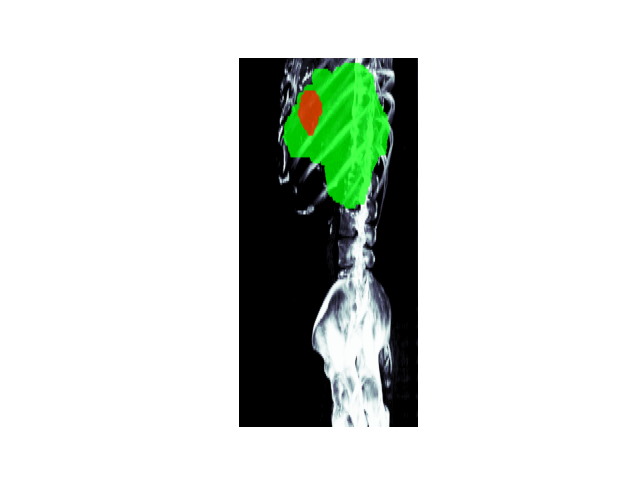
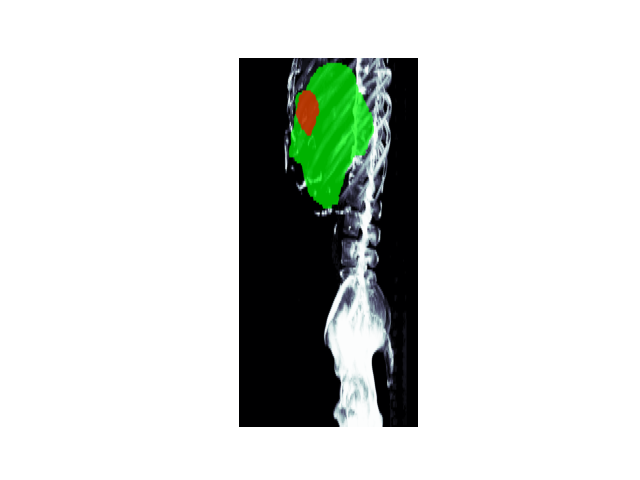
new output

Changed region(s): [[0.4375, 0.0938, 0.625, 0.9062]]

diff --git a/task1_animation.py b/task1_animation.py
@@ -7,6 +7,7 @@ from matplotlib import pyplot as plt, animation
 import os
 from tqdm import tqdm 
 from utils import load_dcm_data,maximum_intensity_projection,sigmoid_contrast
+import argparse
 
 
 
@@ -60,86 +61,82 @@ def create_seg_mask(dcm_mask,dcms_full_patient):
     seg_mask[start_index:end_index] =  np.flip(dcm_mask.pixel_array,0) #A flip is necessary
     return seg_mask
 
-if __name__ == '__main__':
+def main(ct_path, tumor_path, liver_path, n):
     os.makedirs('results/MIP/', exist_ok=True)
-    # Load and sort full patient volume
-    dcm_path='RadCTTACEomics_1193-20250418T131346Z-001/RadCTTACEomics_1193/10_AP_Ax2.50mm'
-    dcms_full_patient=load_dcm_data(dcm_path)
-    dcms_full_patient.sort(key = (lambda x: float(x.SliceLocation))) #Sort by skuce index
+
+    # Load and sort CT volume
+    dcms_full_patient = load_dcm_data(ct_path)
+    dcms_full_patient.sort(key=lambda x: float(x.SliceLocation))
     combined_pixelarray = np.stack([x.pixel_array for x in dcms_full_patient], axis=0)
 
-    #Load tumor
-    dmc_tumor_path='RadCTTACEomics_1193-20250418T131346Z-001/RadCTTACEomics_1193/10_AP_Ax2.50mm_ManualROI_Tumor.dcm'
-    dcm_tumor=pydicom.dcmread(dmc_tumor_path)
-    maks_tumor = create_seg_mask(dcm_tumor, dcms_full_patient)
+    # Load tumor segmentation
+    dcm_tumor = pydicom.dcmread(tumor_path)
+    mask_tumor = create_seg_mask(dcm_tumor, dcms_full_patient)
 
-    #Load liver
-    dmc_liver_path='RadCTTACEomics_1193-20250418T131346Z-001/RadCTTACEomics_1193/10_AP_Ax2.50mm_ManualROI_Liver.dcm'
-    dcm_liver=pydicom.dcmread(dmc_liver_path)
-    maks_liver=create_seg_mask(dcm_liver,dcms_full_patient)
+    # Load liver segmentation
+    dcm_liver = pydicom.dcmread(liver_path)
+    mask_liver = create_seg_mask(dcm_liver, dcms_full_patient)
 
-    #Clip Hue Value to focus on essential organs
+    # Normalization parameters
     img_min, img_max = 0, 800
-    # Set normalization and visualization parameters
-    slice_thickness= float(dcms_full_patient[0].SliceThickness)
-    pixel_spacing=float(dcms_full_patient[0].PixelSpacing[0])
-    aspect=slice_thickness / pixel_spacing
-    cm = matplotlib.colormaps['bone']
-    fig, ax = plt.subplots()
-    n=12 # number of projections/frames
+    slice_thickness = float(dcms_full_patient[0].SliceThickness)
+    pixel_spacing = float(dcms_full_patient[0].PixelSpacing[0])
+    aspect = slice_thickness / pixel_spacing
     cmap_bone = plt.get_cmap('bone')
-    projections=[]
-    # Loop through the images and process
+
+    projections = []
+    fig, ax = plt.subplots()
+
     for idx, degree in tqdm(enumerate(np.linspace(0, 360 * (n - 1) / n, num=n)), total=n, desc="Processing frames"):
         rotated_img = rotate_on_axial_plane(combined_pixelarray, degree)
-        projection = maximum_intensity_projection(rotated_img,axis=1)
+        projection = maximum_intensity_projection(rotated_img, axis=1)
 
-        #CLip values to focus on essential tissues
-        projection[projection>=800]= img_max
-        projection[projection <200]= img_min
-
-        projection = (projection - img_min) / (img_max - img_min) #Normalize.
-        projection=sigmoid_contrast(projection)  #Increse contrast for better visualization
-        projection= cmap_bone(projection)[..., :3] #Add Cbone color range, ignore alpha value
+        #Clip Hue Value to focus on essential organs
+        projection[projection >= 800] = img_max
+        projection[projection < 200] = img_min
+        projection = (projection - img_min) / (img_max - img_min)
+        projection = sigmoid_contrast(projection)   #Increse contrast for better visualization
+        projection = cmap_bone(projection)[..., :3] #Add Cbone color range, ignore alpha value
 
         # Rotate and project liver mask
-        rotated_liver_mask = rotate_on_axial_plane(maks_liver, degree)
-        rotated_liver_mask = maximum_intensity_projection(rotated_liver_mask,axis=1)
-
-        # # Rotate and project tumor mask
-        rotated_tumor_mask = rotate_on_axial_plane(maks_tumor, degree)
+        rotated_liver_mask = rotate_on_axial_plane(mask_liver, degree)
+        rotated_liver_mask = maximum_intensity_projection(rotated_liver_mask, axis=1)
+        
+        # Rotate and project tumor mask
+        rotated_tumor_mask = rotate_on_axial_plane(mask_tumor, degree)
         rotated_tumor_mask = maximum_intensity_projection(rotated_tumor_mask, axis=1)
 
+        overlay_img = projection
+        alpha = 0.7
 
-        overlay_img=projection
-        #add each overalay
-        alpha=0.7
-        green=np.array([0.0, 1.0, 0.0])
-        mask=rotated_liver_mask>1
-        overlay_img [mask]=  overlay_img [mask]*(1-alpha ) + green * rotated_liver_mask[..., np.newaxis][mask] * alpha
+        green = np.array([0.0, 1.0, 0.0])
+        mask = rotated_liver_mask > 1
+        overlay_img[mask] = overlay_img[mask] * (1 - alpha) + green * rotated_liver_mask[..., np.newaxis][mask] * alpha
 
+        red = np.array([1.0, 0.0, 0.0])
+        mask = rotated_tumor_mask > 1
+        overlay_img[mask] = overlay_img[mask] * (1 - alpha) + red * rotated_tumor_mask[..., np.newaxis][mask] * alpha
 
-        alpha=0.7
-        red=np.array([1.0, 0.0, 0.0] )
-        mask=rotated_tumor_mask>1
-        overlay_img [mask]=  overlay_img [mask]*(1-alpha ) + red * rotated_tumor_mask[..., np.newaxis][mask] * alpha
-
-        # Clip to valid range for imshow
         overlay_img = np.clip(overlay_img, 0, 1)
-        # Display the image with overlay
         plt.imshow(overlay_img, aspect=aspect)
-        plt.axis('off')  # Turn off the axis
-        plt.savefig(f'results/MIP/Projection_{idx}.png')  # Save image frame
-        projections.append(overlay_img)  # Append for animation
+        plt.axis('off')
+        plt.savefig(f'results/MIP/Projection_{idx}.png')
+        projections.append(overlay_img)
+
+    animation_data = [[plt.imshow(img, animated=True, cmap=cmap_bone, vmin=img_min, vmax=img_max, aspect=aspect)] for img in projections]
+    anim = animation.ArtistAnimation(fig, animation_data, interval=250, blit=True)
+    anim.save('results/MIP/Animation.gif')
+    plt.show()
 
 
+if __name__ == '__main__':
+    parser = argparse.ArgumentParser(description="Generate rotating MIP projection with segmentation overlays.")
+    parser.add_argument('--ct_path', type=str, required=True, help="Path to the CT DICOM folder.")
+    parser.add_argument('--tumor_path', type=str, required=True, help="Path to the tumor segmentation DICOM.")
+    parser.add_argument('--liver_path', type=str, required=True, help="Path to the liver segmentation DICOM.")
+    parser.add_argument('--n', type=int, default=16, help="Number of rotation projections (default: 16).")
+    args = parser.parse_args()
 
-    # Save and visualize animation
-    animation_data = [
-        [plt.imshow(img, animated=True, cmap=cm, vmin=img_min, vmax=img_max, aspect=aspect)]
-        for img in projections
-    ]
-    anim = animation.ArtistAnimation(fig, animation_data,
-                              interval=250, blit=True)
-    anim.save('results/MIP/Animation.gif')  # Save animation
-    plt.show()                              # Show animation
+    main(args.ct_path, args.tumor_path, args.liver_path, args.n)
+
+    

diff --git a/README.md b/README.md
@@ -1,2 +1,8 @@
 # 11763-Medical-Image-processing-Final-Project
 11763 - Medical Image processing - Final Project
+
+python task1_animation.py \
+  --ct_path "RadCTTACEomics_1193-20250418T131346Z-001/RadCTTACEomics_1193/10_AP_Ax2.50mm" \
+  --tumor_path "RadCTTACEomics_1193-20250418T131346Z-001/RadCTTACEomics_1193/10_AP_Ax2.50mm_ManualROI_Tumor.dcm" \
+  --liver_path "RadCTTACEomics_1193-20250418T131346Z-001/RadCTTACEomics_1193/10_AP_Ax2.50mm_ManualROI_Liver.dcm" \
+  --n 16
